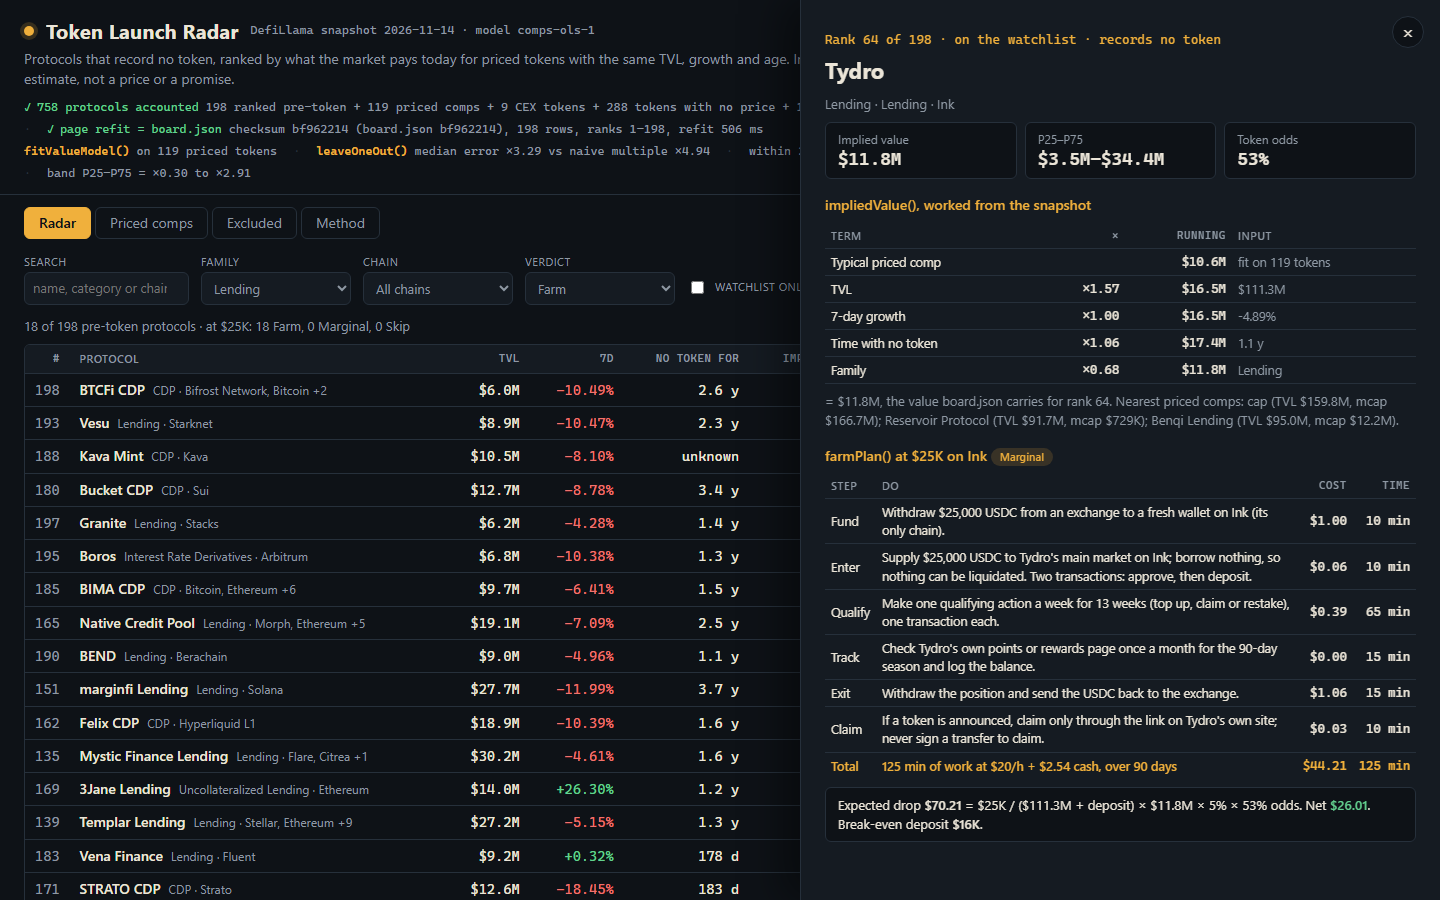
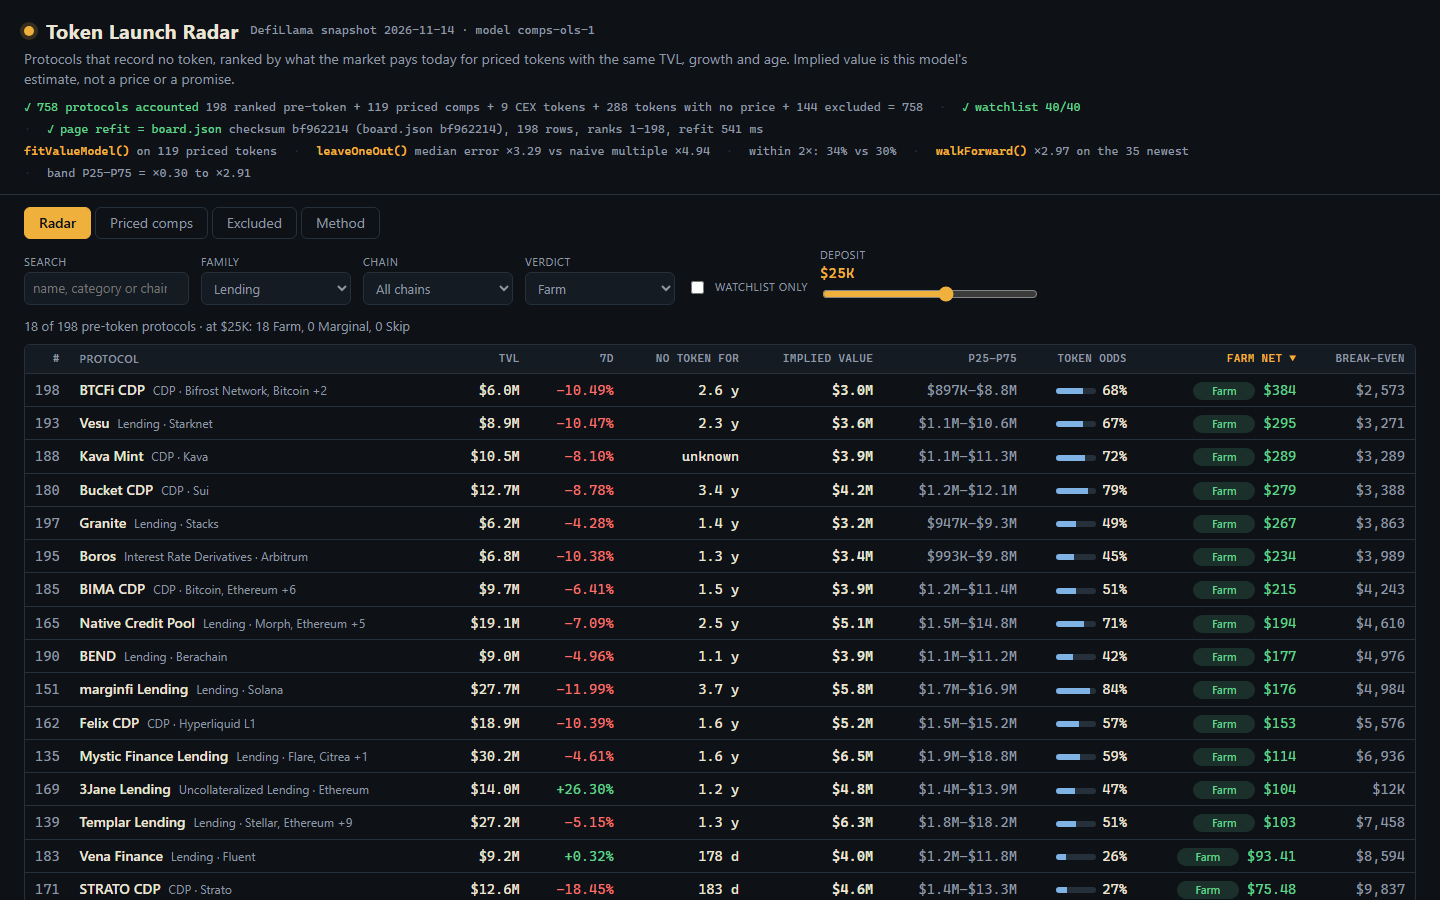
Comps tab: held-out scorecard beside the fitted-vs-actual scatter; 4th screenshot

diff --git a/dashboard/c-app.js b/dashboard/c-app.js
@@ -113,17 +113,33 @@
 
   // Scatter of fitted vs actual market cap (log10), every priced comp: the model's fit at a glance.
   function scatter() {
-    const W = 360, H = 220, lo = 4, hi = 11, x = (v) => 30 + (v - lo) / (hi - lo) * (W - 40), y = (v) => H - 24 - (v - lo) / (hi - lo) * (H - 34);
-    const dots = R.comps.map((c) => `<circle cx="${x(Math.log10(c.fitted_usd)).toFixed(1)}" cy="${y(Math.log10(c.mcap_usd)).toFixed(1)}" r="3"><title>${esc(c.name)}</title></circle>`).join('');
+    const pts = R.comps.map((c) => [Math.log10(c.fitted_usd), Math.log10(c.mcap_usd), c.name]);
+    const all = pts.flatMap((p) => [p[0], p[1]]), lo = Math.floor(Math.min(...all)), hi = Math.ceil(Math.max(...all));
+    const W = 480, H = 270, x = (v) => 62 + (v - lo) / (hi - lo) * (W - 90), y = (v) => H - 30 - (v - lo) / (hi - lo) * (H - 52);
+    const ticks = [], tick = (t) => money(Math.pow(10, t)).replace('.00', '');
+    for (let t = lo; t <= hi; t++) ticks.push(`<text x="${x(t)}" y="${H - 16}" text-anchor="middle">${tick(t)}</text><text x="54" y="${y(t) + 3}" text-anchor="end">${tick(t)}</text>`);
+    const dots = pts.map((p) => `<circle cx="${x(p[0]).toFixed(1)}" cy="${y(p[1]).toFixed(1)}" r="3"><title>${esc(p[2])}</title></circle>`).join('');
     return `<svg viewBox="0 0 ${W} ${H}" class="scatter" role="img" aria-label="Fitted versus actual market cap for ${R.comps.length} priced tokens">
-      <line x1="${x(lo)}" y1="${y(lo)}" x2="${x(hi)}" y2="${y(hi)}" class="diag"/>${dots}
-      <text x="${W / 2}" y="${H - 4}">fitted market cap (log10 $)</text><text x="4" y="12">actual</text></svg>`;
+      <line x1="${x(lo)}" y1="${y(lo)}" x2="${x(hi)}" y2="${y(hi)}" class="diag"/>${ticks.join('')}${dots}
+      <text x="${W / 2}" y="${H - 2}" text-anchor="middle">fitted market cap (dashed line: fitted = actual)</text><text x="4" y="10">actual market cap</text></svg>`;
+  }
+
+  // The held-out scorecard beside the scatter: the model against the naive multiple, same comps.
+  function scorecard() {
+    const pc = (x) => Math.round(x * 100) + '%', mult = R.comps.map((c) => c.mcap_usd / c.tvl_usd);
+    const fx = (m) => (m < 0.01 ? m.toPrecision(2) : m < 10 ? m.toFixed(2) : Math.round(m)) + '×';
+    return `<table class="mini score"><thead><tr><th>Held-out test (${V.n} priced tokens)</th><th class="num">Model</th><th class="num">Naive</th></tr></thead><tbody>
+      <tr><td>leaveOneOut() median error</td><td class="num up">${times(V.loo_mad)}</td><td class="num">${times(V.naive_mad)}</td></tr>
+      <tr><td>Within 2× of the real market cap</td><td class="num up">${pc(V.loo_within2x)}</td><td class="num">${pc(V.naive_within2x)}</td></tr>
+      <tr><td>walkForward() median error, ${V.wf_n} newest, fit on older only</td><td class="num up">${times(V.wf_mad)}</td><td class="num">–</td></tr>
+      <tr><td>P25–P75 band (LOO errors)</td><td class="num" colspan="2">${times(V.band_p25)} to ${times(V.band_p75)}</td></tr></tbody></table>
+      <p class="dim">Naive = every protocol at the median market cap / TVL. Errors are multiplicative: ×3 means off by a factor of 3 either way. The spread is wide because priced tokens themselves trade at ${fx(Math.min(...mult))} to ${fx(Math.max(...mult))} their TVL (median ${fx(M.quantile(mult, 0.5))}), so every row carries its band.</p>`;
   }
 
   function renderComps() {
-    $('#count').textContent = `${R.comps.length} protocols whose token trades: the comps the value model is fitted on (never ranked on the radar)`;
-    $('#table').innerHTML = `<caption>${scatter()}</caption><thead><tr><th>Protocol</th><th class="num">TVL</th><th class="num">Market cap</th><th class="num">Mcap / TVL</th><th class="num">Fitted</th><th class="num">LOO error</th><th>Family</th></tr></thead><tbody>${R.comps.map((c) =>
-      `<tr><td><b>${esc(c.name)}</b><small>${esc(c.category || '')}</small></td><td class="num">${money(c.tvl_usd)}</td><td class="num strong">${money(c.mcap_usd)}</td><td class="num">${(c.mcap_usd / c.tvl_usd).toFixed(2)}</td><td class="num">${money(c.fitted_usd)}</td><td class="num ${Math.abs(c.loo_err) <= 0.301 ? 'up' : 'dim'}">${times(c.loo_err)}</td><td>${esc(c.family)}</td></tr>`).join('')}</tbody>`;
+    $('#count').textContent = `${R.comps.length} protocols whose token trades: the comps the value model is fitted on (never ranked on the radar), largest TVL first`;
+    $('#table').innerHTML = `<caption><div class="evidence">${scatter()}<div>${scorecard()}</div></div></caption><thead><tr><th>Protocol</th><th class="num">TVL</th><th class="num">Market cap</th><th class="num">Mcap / TVL</th><th class="num">Fitted</th><th class="num">LOO error</th><th>Family</th></tr></thead><tbody>${R.comps.map((c) =>
+      `<tr><td><b>${esc(c.name)}</b><small>${esc(c.category || '')}</small></td><td class="num">${money(c.tvl_usd)}</td><td class="num strong">${money(c.mcap_usd)}</td><td class="num">${(c.mcap_usd / c.tvl_usd).toPrecision(2)}</td><td class="num">${money(c.fitted_usd)}</td><td class="num ${Math.abs(c.loo_err) <= 0.301 ? 'up' : 'dim'}">${times(c.loo_err)}</td><td>${esc(c.family)}</td></tr>`).join('')}</tbody>`;
   }
 
   function renderExcluded() {

diff --git a/dashboard/z-style.css b/dashboard/z-style.css
@@ -64,7 +64,11 @@ tbody tr.sel { background: #2a2416; box-shadow: inset 3px 0 0 var(--amber); }
 .pill.Skip { background: rgba(240, 115, 109, 0.14); color: var(--red); }
 .bar { display: inline-block; width: 40px; height: 6px; margin-right: 6px; border-radius: 3px; background: linear-gradient(90deg, var(--blue) var(--w), var(--line) var(--w)); vertical-align: middle; }
 caption { padding: var(--s3); text-align: left; }
-.scatter { width: 420px; height: auto; display: block; }
+.filters[hidden] { display: none; }
+.evidence { display: flex; gap: var(--s5); align-items: flex-start; }
+.evidence .score { width: 560px; }
+.evidence p { max-width: 560px; font-size: 12.5px; }
+.scatter { width: 480px; height: auto; display: block; flex: none; }
 .scatter circle { fill: var(--blue); fill-opacity: 0.75; }
 .scatter .diag { stroke: var(--amber); stroke-dasharray: 4 4; }
 .scatter text { fill: var(--dim); font: 10px var(--sans); }

diff --git a/dashboard/a-model.js b/dashboard/a-model.js
@@ -240,7 +240,7 @@
     const compRows = comps.map((c, i) => ({
       slug: c.slug, name: c.name, category: c.p.category, family: c.f.fam, tvl_usd: c.p.tvl_usd, change_7d: c.p.change_7d,
       age_days: c.f.days, mcap_usd: c.p.mcap_usd, fitted_usd: Math.round(Math.pow(10, predictLog(fit, c.f))), loo_err: loo[i],
-    })).sort((a, b) => b.mcap_usd - a.mcap_usd || byStr(a.slug, b.slug));
+    })).sort((a, b) => b.tvl_usd - a.tvl_usd || byStr(a.slug, b.slug));
 
     const accounting = {
       total: snap.protocols.length, radar: groups.radar.length, comp: groups.comp.length, traded_cex: groups['traded-cex'].length,
